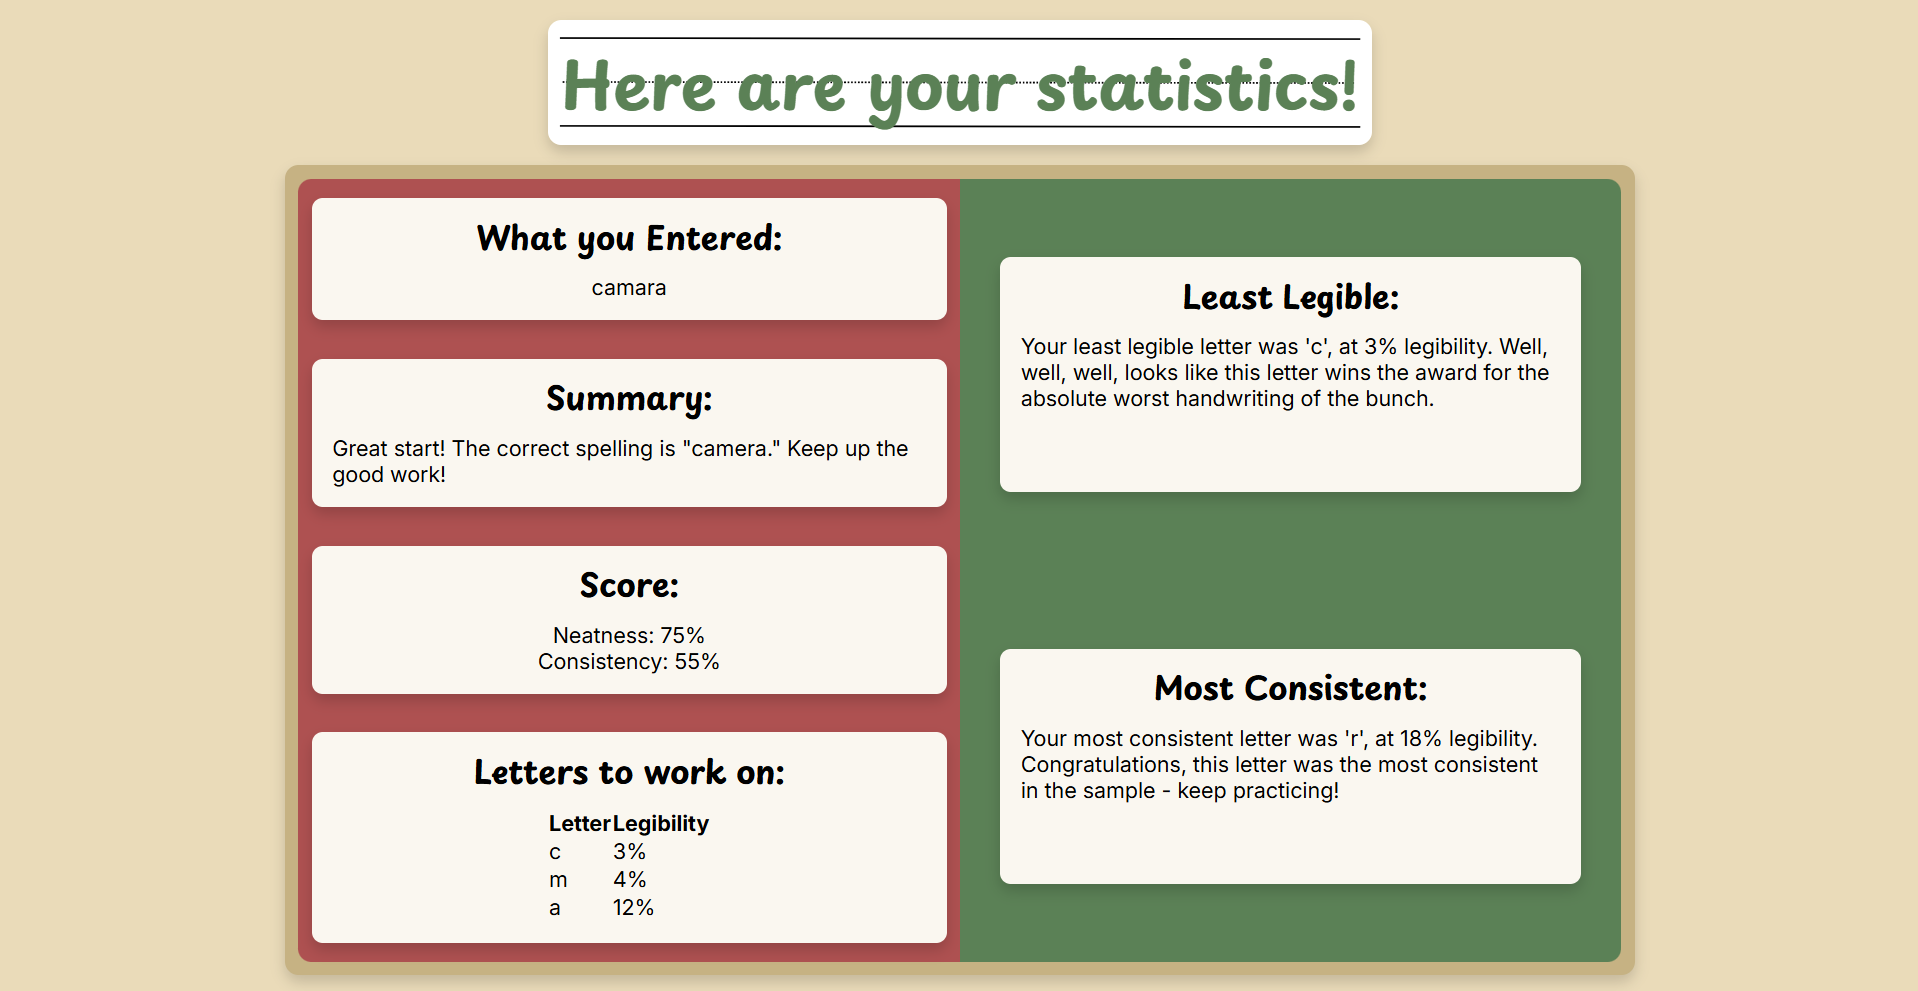
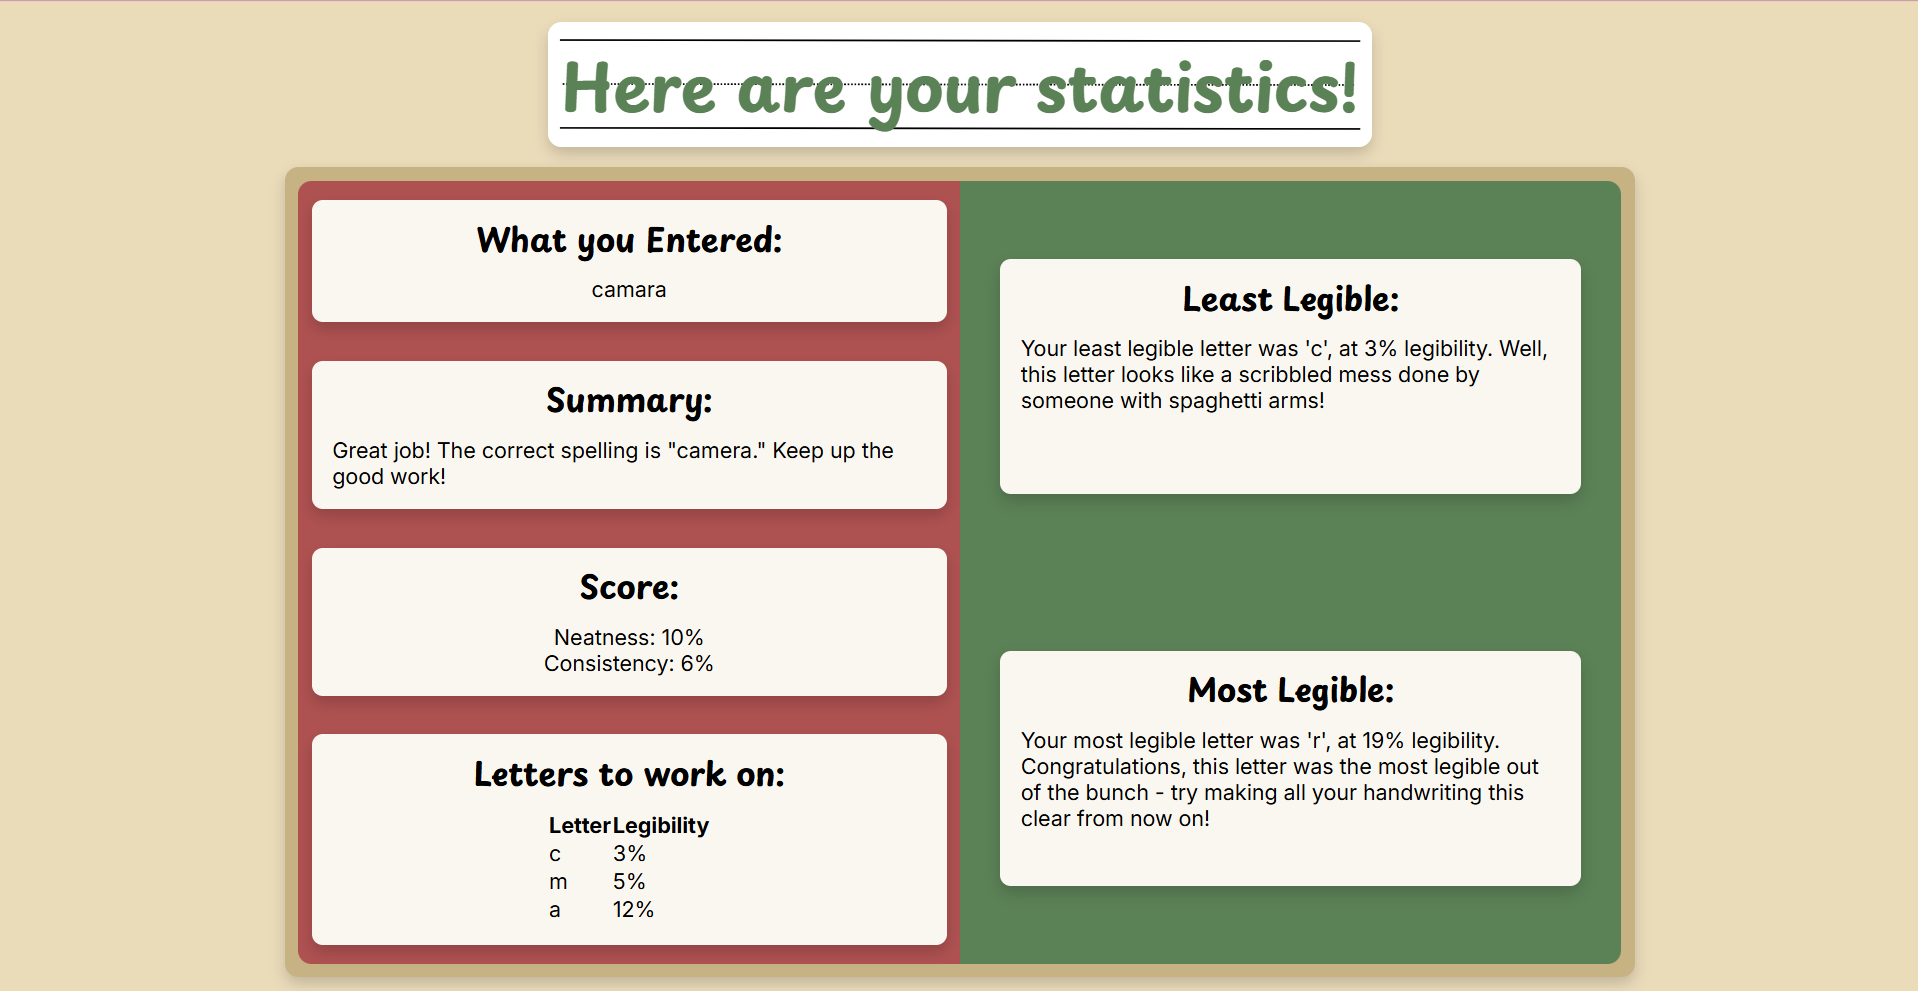
adding description to README and updating neatness statistic

diff --git a/front/src/Components/WriteRight.jsx b/front/src/Components/WriteRight.jsx
@@ -79,7 +79,7 @@ export default function WriteRight() {
             <h2>Least Legible:</h2> {summary.mostLegible}
           </div>
           <div className="summary most-legible">
-            <h2>Most Consistent:</h2> {summary.mostConsistent}
+            <h2>Most Legible:</h2> {summary.mostConsistent}
           </div>
         </div>
       </div>

diff --git a/back/server.py b/back/server.py
@@ -48,7 +48,7 @@ def image():
         input_text.join(square[1])
     
     for key in scores.keys():
-        scores[key] = int(np.mean(scores[key]) * 100)
+        scores[key] = round(np.mean(scores[key]) * 100)
     
     print(sorted(scores.keys()))
 
@@ -65,7 +65,7 @@ def image():
 
     consistent_letter = str(results[-1][1])
     consistent_score = str(results[-1][0])
-    prompt_consistent = "Give an extremely silly and mean and sassy, one-sentence message like you are talking to a child explaining that the following letter was the most consistently written in the sample of handwriting that was just processed. Please do not use the word 'brat' AT ALL. also DO NOT use terms of endearment AT ALL."
+    prompt_consistent = "Give an extremely silly and mean and sassy, one-sentence message like you are talking to a child explaining that the following letter was the most legibly written in the sample of handwriting that was just processed. Please do not use the word 'brat' AT ALL. also DO NOT use terms of endearment AT ALL."
 
     # TODO use model to get score
     summary = GPTInterface().get_summary(input_text, prompt)
@@ -83,15 +83,17 @@ def image():
     if len(worst) > 3:
         worst = worst[0:3]
 
+    scores = [result[0] for result in results]
+
     return jsonify(
         {
             "summary": {
                 "input": input_text,
                 "text": summary,
-                "neatness": 75,
-                "consistency": 55,
+                "neatness": str(round(np.mean(scores))),
+                "consistency": round(np.std(scores)),
                 "mostLegible": "Your least legible letter was '" + legible_letter + "', at " + legible_score + "% legibility. " + legibility,
-                "mostConsistent": "Your most consistent letter was '" + consistent_letter + "', at " + consistent_score + "% legibility. " + consistence,
+                "mostConsistent": "Your most legible letter was '" + consistent_letter + "', at " + consistent_score + "% legibility. " + consistence,
                 "worst": worst,
             }
         }

diff --git a/README.md b/README.md
@@ -1,10 +1,12 @@
 # WriteRight
 
-### Philly Codefest, April 2024 at Drexel University
+### Philly Codefest, March 2025 at Drexel University
 
 ## Overview
 
-TODO
+WriteRight is a tool that utilizes machine learning and artificial intelligence to assist users in improving their handwriting skills! Given a handwritten sample, WriteRight identifies characters and compiles a report including spelling and grammar feedback as well as suggestions for particular characters to focus on writing more neatly.
+
+WriteRight is intended for use by children learning to write and by foreign learners practicing written English. We hope to improve and automate the process of learning any written language, with the goal of extending our technology to identify non-English characters in the future.
 
 <img src="/documentation/index.png" width="1000">
 <img src="/documentation/upload_image.gif" width="1000">
@@ -12,9 +14,9 @@ TODO
 
 ## Description
 
-TODO
+This application is written in Python and React. When an image is uploaded, it is split into a grid of squares using OpenCV, and the character in each square is identified using the EasyOCR text recognition model. Then the images are assigned a neatness percentage using our trained linear regression model. Finally, these statistics are compiled in a report and the OpenAI API is used to provide supplementary verbal feedback.
 
-## Running
+## Running WriteRight
 
 ### Authentication keys
 
